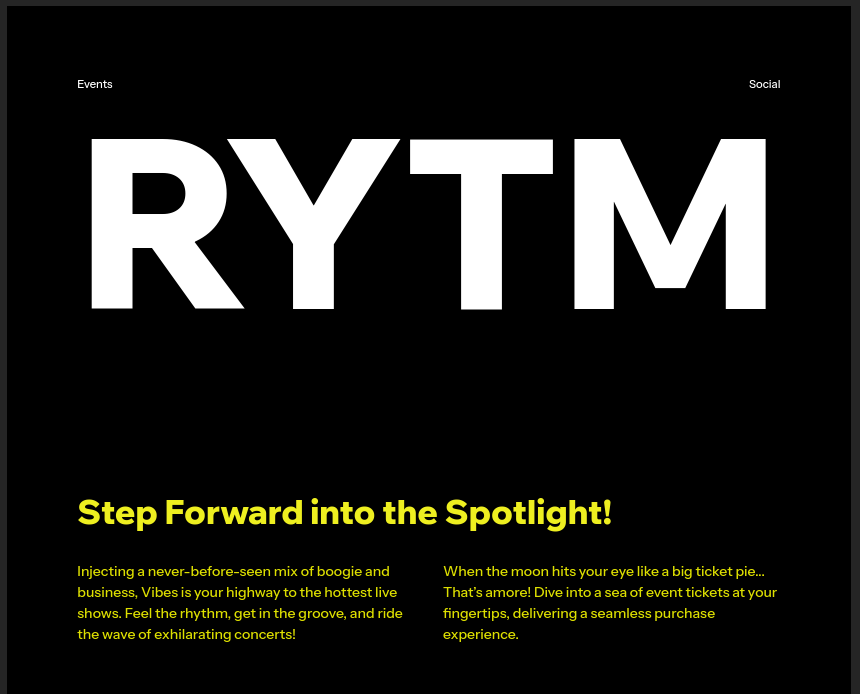
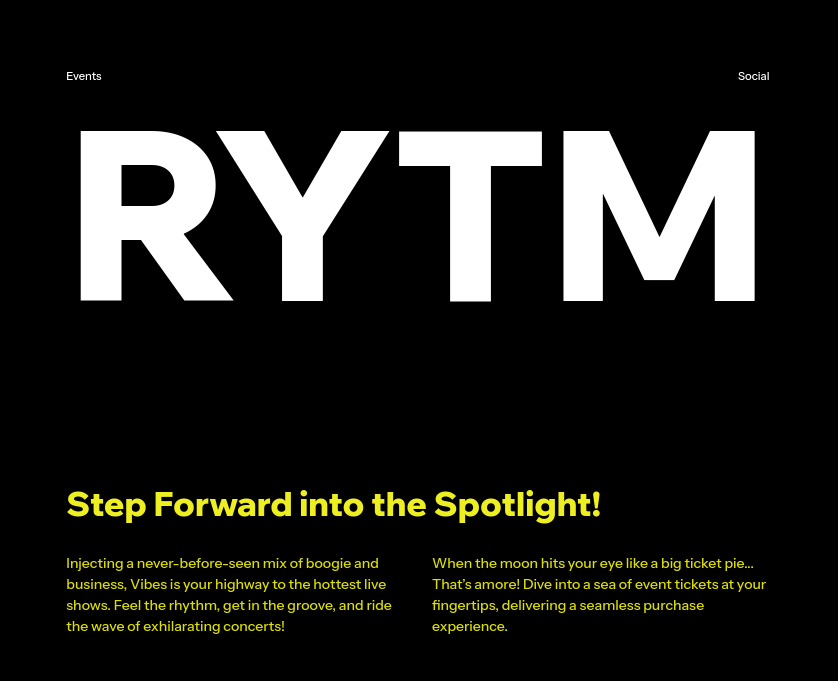
styling

diff --git a/app/_components/projects/project-card/project-card.styles.tsx b/app/_components/projects/project-card/project-card.styles.tsx
@@ -19,19 +19,19 @@ export const Outer = styled.div`
 export const Details = styled.div`
   padding: 20px;
   width: auto;
-  font-size: 1.35rem;
+  font-size: 1.25rem;
 
   @media (max-width: 1800px) {
     width: 80%;
   }
 
   @media (max-width: 1700px) {
-    font-size: 1.2rem;
+    font-size: 1.1rem;
     width: 90%;
   }
 
   @media (max-width: 1200px) {
-    font-size: 1.1rem;
+    font-size: 1rem;
   }
 
   @media (max-width: 1000px) {
@@ -51,35 +51,35 @@ export const Meta = styled.div`
     margin: 0px;
     margin-bottom: 5px;
     color: ${({ theme }) => theme.main.softBlack};
-    font-size: 1.8rem;
+    font-size: 1.6rem;
 
     @media (max-width: 1700px) {
-      font-size: 1.6rem;
+      font-size: 1.4rem;
     }
   }
 
   span {
     color: ${({ theme }) => theme.main.softBlack};
-    font-size: 1.35rem;
+    font-size: 1.25rem;
 
     @media (max-width: 1600px) {
-      font-size: 1.2rem;
-    }
-
-    @media (max-width: 1000px) {
       font-size: 1.1rem;
     }
 
-    @media (max-width: 700px) {
+    @media (max-width: 1000px) {
       font-size: 1rem;
     }
 
-    @media (max-width: 500px) {
+    @media (max-width: 700px) {
       font-size: 0.9rem;
     }
 
-    @media (max-width: 400px) {
+    @media (max-width: 500px) {
       font-size: 0.8rem;
+    }
+
+    @media (max-width: 400px) {
+      font-size: 0.7rem;
     }
   }
 `

diff --git a/app/_components/about-me/about-me.styles.tsx b/app/_components/about-me/about-me.styles.tsx
@@ -22,10 +22,10 @@ export const AboutWrapper = styled.div`
   }
 
   h2 {
-    font-size: 2.1rem;
+    font-size: 1.8rem;
 
     @media (max-width: 1700px) {
-      font-size: 1.8rem;
+      font-size: 1.6rem;
     }
 
     @media (max-width: 1200px) {
@@ -40,10 +40,10 @@ export const AboutWrapper = styled.div`
   h3 {
     text-align: center;
     color: ${({ theme }) => theme.main.softBlack};
-    font-size: 1.8rem;
+    font-size: 1.6rem;
 
     @media (max-width: 1700px) {
-      font-size: 1.6rem;
+      font-size: 1.4rem;
     }
 
     @media (max-width: 1200px) {
@@ -53,14 +53,14 @@ export const AboutWrapper = styled.div`
 
   p {
     color: ${({ theme }) => theme.main.softBlack};
-    font-size: 1.35rem;
+    font-size: 1.25rem;
 
     @media (max-width: 1700px) {
-      font-size: 1.2rem;
+      font-size: 1.1rem;
     }
 
     @media (max-width: 1200px) {
-      font-size: 1.1rem;
+      font-size: 1rem;
     }
   }
 `
@@ -92,10 +92,10 @@ export const Skills = styled.div`
       color: ${({ theme }) => theme.main.deepPurple};
       box-shadow: 3px 3px 8px 0px rgba(42, 42, 42, 0.6);
       font-weight: bold;
-      font-size: 1.2rem;
+      font-size: 1.1rem;
 
       @media (max-width: 1700px) {
-        font-size: 1.1rem;
+        font-size: 1rem;
       }
 
       @media (max-width: 1200px) {

diff --git a/app/_components/experiences/experience-card/experience-card.styles.tsx b/app/_components/experiences/experience-card/experience-card.styles.tsx
@@ -25,14 +25,14 @@ export const Card = styled.div`
   p {
     margin: 10px 0px;
     color: ${({ theme }) => theme.main.softBlack};
-    font-size: 1.35rem;
+    font-size: 1.25rem;
 
     @media (max-width: 1700px) {
-      font-size: 1.2rem;
+      font-size: 1.1rem;
     }
 
     @media (max-width: 1200px) {
-      font-size: 1.1rem;
+      font-size: 1rem;
     }
   }
 `
@@ -47,35 +47,35 @@ export const MetaWrapper = styled.div`
   h3 {
     margin: 0px;
     color: ${({ theme }) => theme.main.softBlack};
-    font-size: 1.8rem;
+    font-size: 1.6rem;
 
     @media (max-width: 1700px) {
-      font-size: 1.6rem;
+      font-size: 1.4rem;
     }
   }
 
   span {
     color: ${({ theme }) => theme.main.softBlack};
-    font-size: 1.35rem;
+    font-size: 1.25rem;
 
     @media (max-width: 1600px) {
-      font-size: 1.2rem;
-    }
-
-    @media (max-width: 1000px) {
       font-size: 1.1rem;
     }
 
-    @media (max-width: 700px) {
+    @media (max-width: 1000px) {
       font-size: 1rem;
     }
 
-    @media (max-width: 500px) {
+    @media (max-width: 700px) {
       font-size: 0.9rem;
     }
 
-    @media (max-width: 400px) {
+    @media (max-width: 500px) {
       font-size: 0.8rem;
+    }
+
+    @media (max-width: 400px) {
+      font-size: 0.7rem;
     }
   }
 `

diff --git a/app/_components/_shared/externals/externals.styles.tsx b/app/_components/_shared/externals/externals.styles.tsx
@@ -10,7 +10,7 @@ export const IconList = styled.ul`
     a {
       display: flex;
       text-decoration: none;
-      font-size: 2.8rem;
+      font-size: 2.4rem;
       padding: 10px 15px;
       transition: 0.2s;
       color: ${({ theme }) => theme.main.offWhite};
@@ -21,23 +21,23 @@ export const IconList = styled.ul`
       }
 
       @media (max-width: 1600px) {
-        font-size: 2.4rem;
+        font-size: 2.2rem;
       }
 
       @media (max-width: 1000px) {
-        font-size: 2rem;
-      }
-
-      @media (max-width: 700px) {
         font-size: 1.8rem;
       }
 
+      @media (max-width: 700px) {
+        font-size: 1.6rem;
+      }
+
       @media (max-width: 500px) {
-        font-size: 1.7rem;
+        font-size: 1.5rem;
       }
 
       @media (max-width: 400px) {
-        font-size: 1.5rem;
+        font-size: 1.4rem;
       }
     }
   }

diff --git a/app/_components/experiences/experiences.styles.tsx b/app/_components/experiences/experiences.styles.tsx
@@ -21,10 +21,10 @@ export const Inner = styled(SharedInner)`
   h2 {
     color: ${({ theme }) => theme.main.offWhite};
     text-align: center;
-    font-size: 2.1rem;
+    font-size: 1.8rem;
 
     @media (max-width: 1700px) {
-      font-size: 1.8rem;
+      font-size: 1.6rem;
     }
 
     @media (max-width: 1200px) {

diff --git a/app/_components/_shared/link-out/link-out.styles.tsx b/app/_components/_shared/link-out/link-out.styles.tsx
@@ -10,10 +10,10 @@ export const Wrapper = styled.div`
 
   h2 {
     color: ${({ theme }) => theme.main.offWhite};
-    font-size: 2.1rem;
+    font-size: 1.8rem;
 
     @media (max-width: 1700px) {
-      font-size: 1.8rem;
+      font-size: 1.6rem;
     }
 
     @media (max-width: 1200px) {

diff --git a/app/_components/footer/footer.styles.tsx b/app/_components/footer/footer.styles.tsx
@@ -30,7 +30,7 @@ export const BranchLink = styled.a`
   transition: 0.2s;
 
   @media (max-width: 600px) {
-    font-size: 0.7rem;
+    font-size: 0.6rem;
   }
 
   &:hover {

diff --git a/styles/theme.ts b/styles/theme.ts
@@ -8,7 +8,7 @@ const theme = {
     softBlack: '#0e1111'
   },
   size: {
-    innerWidth: '80%' // 1536px @ 1920px
+    innerWidth: '70%' // 1536px @ 1920px
   }
 }
 
